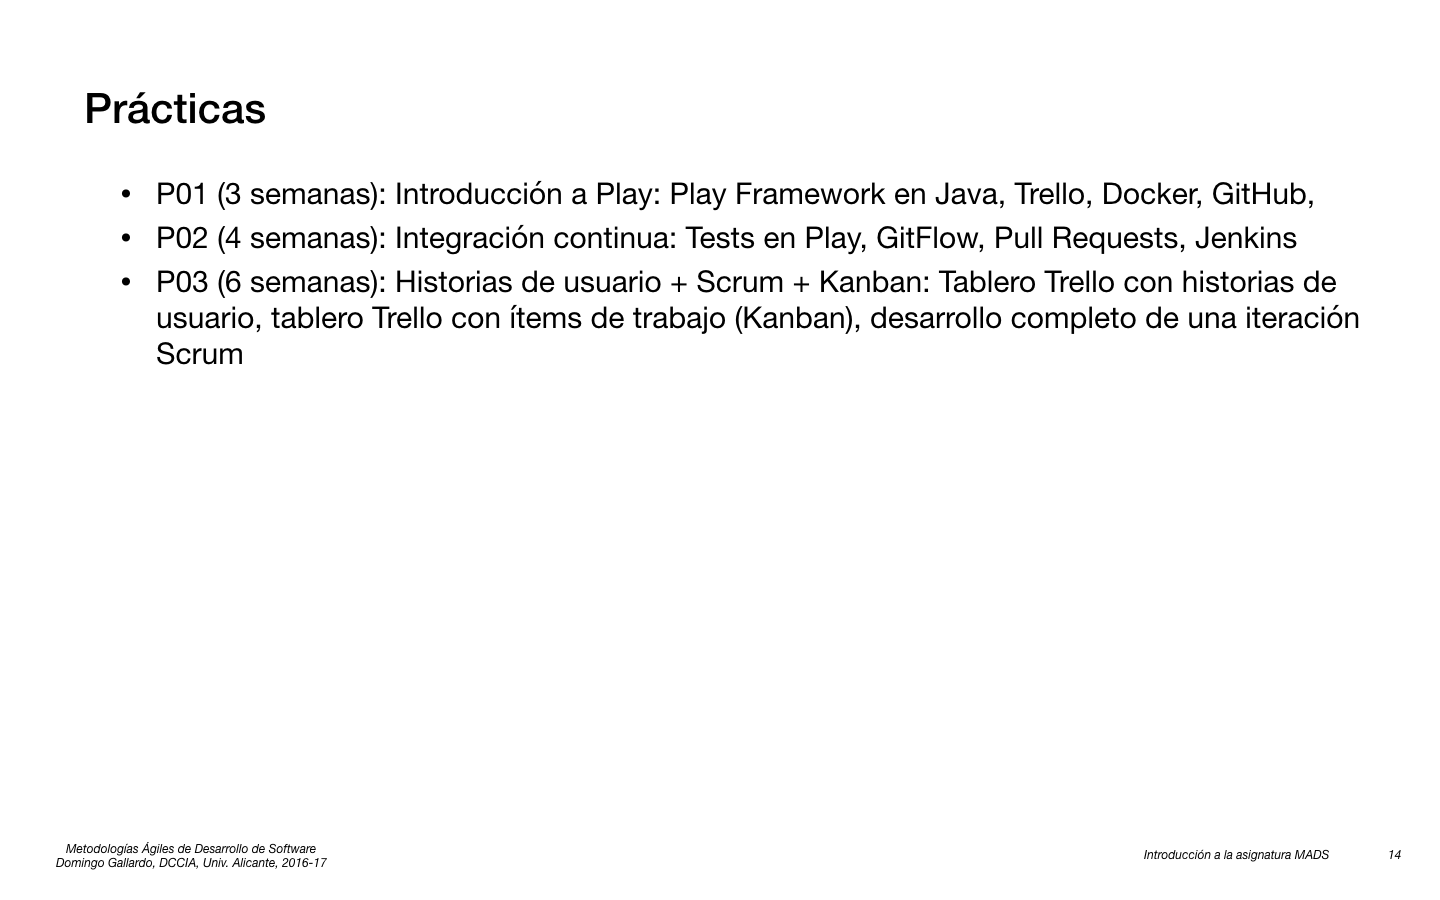
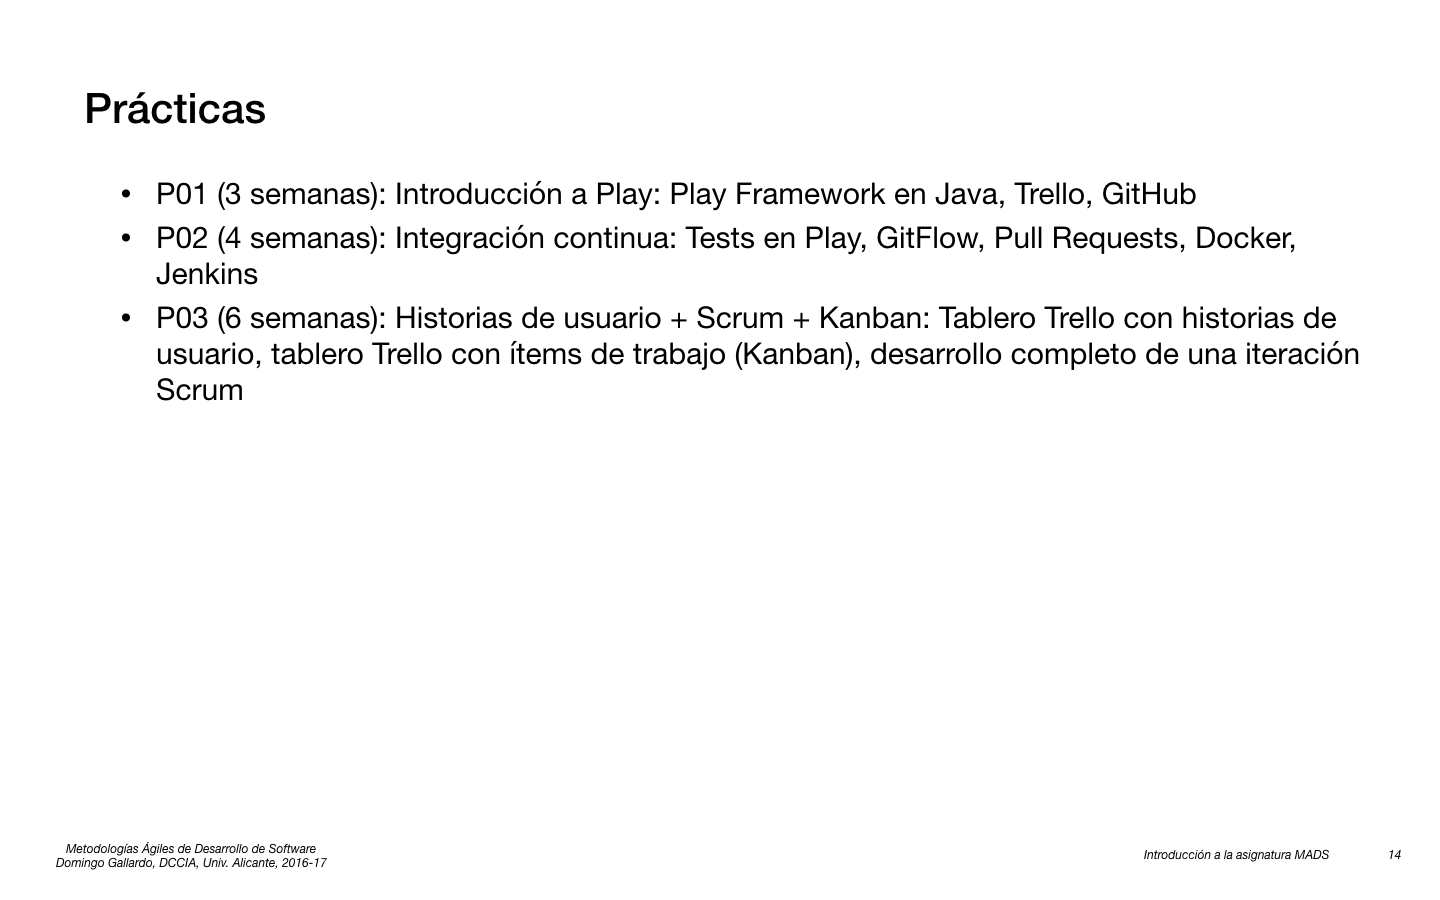
Corregida sesión introducción a mads

Changed region(s): [[0.0938, 0.1867, 0.9375, 0.4667]]

diff --git a/sesiones/introduccion-a-mads/introduccion-a-mads.md b/sesiones/introduccion-a-mads/introduccion-a-mads.md
@@ -5,9 +5,19 @@
 
 <img src="diapositivas/introduccion-a-mads.002.png" width="800px">
 
+Enlaces:
+
+- [Ficha de la asignatura](http://cv1.cpd.ua.es/ConsPlanesEstudio/cvFichaAsiEEES.asp?wcodasi=34037&wLengua=C&scaca=2016-17)
+- [Moodle](https://moodle2016-17.ua.es/moodle/course/view.php?id=927)
+- [Apuntes y materiales](https://github.com/domingogallardo/mads-ua)
+
 <img src="diapositivas/introduccion-a-mads.003.png" width="800px">
 
 <img src="diapositivas/introduccion-a-mads.004.png" width="800px">
+
+- [Henry Kniberg](https://www.crisp.se/konsulter/henrik-kniberg) es un gran divulgador de las metodologías ágiles. Trabaja en la actualidad como consultor en Spotify y Lego. Le gusta compartir todo lo que hace y muchos de los libros que ha escrito están en abierto. Vamos a utilizar muchos de sus materiales (diapositivas, vídeos, libros, artículos). Muy recomendable su [blog](http://blog.crisp.se/author/henrikkniberg).
+
+- El ciclo "-> Ideas -> Code -> Data ->" es una versión del [ciclo de mejora continua](https://www.google.com/search?rls=en&biw=1363&bih=789&tbm=isch&q=continuous+improvement+cycle&sa=X&ved=0ahUKEwikmbO9m_vOAhWKbxQKHZ2zAwAQhyYIIw) de las metodologías _lean_.
 
 <img src="diapositivas/introduccion-a-mads.005.png" width="800px">
 
@@ -19,7 +29,7 @@
 
 - El primer examen parcial será el 2 de noviembre y se realizará en horario de la clase de teoría. El segundo parcial coincidirá con la fecha oficial del examen de la asignatura. En esas fechas se realizarán los exámenes de teoría y práctica. 
 
-- En cuanto a la evaluación, el **60% por ciento** de la calificación será por la nota en los exámenes parciales y el **40% por las prácticas**. No hay examen final.
+- En cuanto a la evaluación, el **70% por ciento** de la calificación será por la nota en los exámenes parciales y el **30% por las prácticas**. No hay examen final. Las preguntas serán principalmente de tipo test. Los parciales de la parte de prácticas incluirán preguntas de las tecnologías que se han usado para realizar las prácticas.
 
 <img src="diapositivas/introduccion-a-mads.006.png" width="800px">
 
@@ -36,6 +46,13 @@
 <img src="diapositivas/introduccion-a-mads.012.png" width="800px">
 
 <img src="diapositivas/introduccion-a-mads.013.png" width="800px">
+
+Enlaces:
+
+- [Play Framework](https://www.playframework.com)
+- [GitHub](http://github.com)
+- [Git](https://git-scm.com/book/en/v2)
+- [Docker](https://www.docker.com)
 
 <img src="diapositivas/introduccion-a-mads.014.png" width="800px">
 
